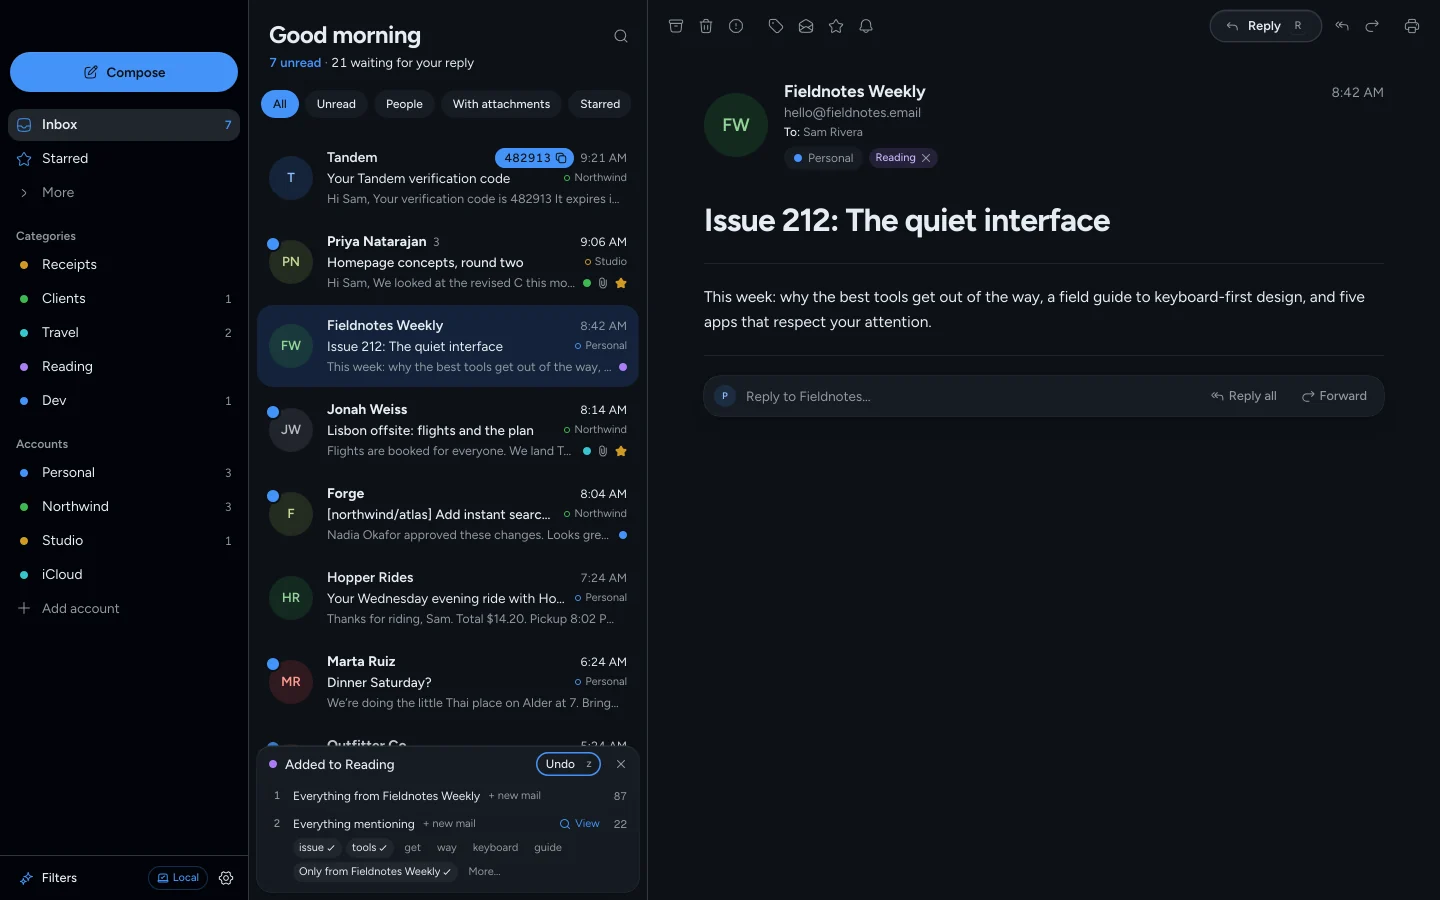
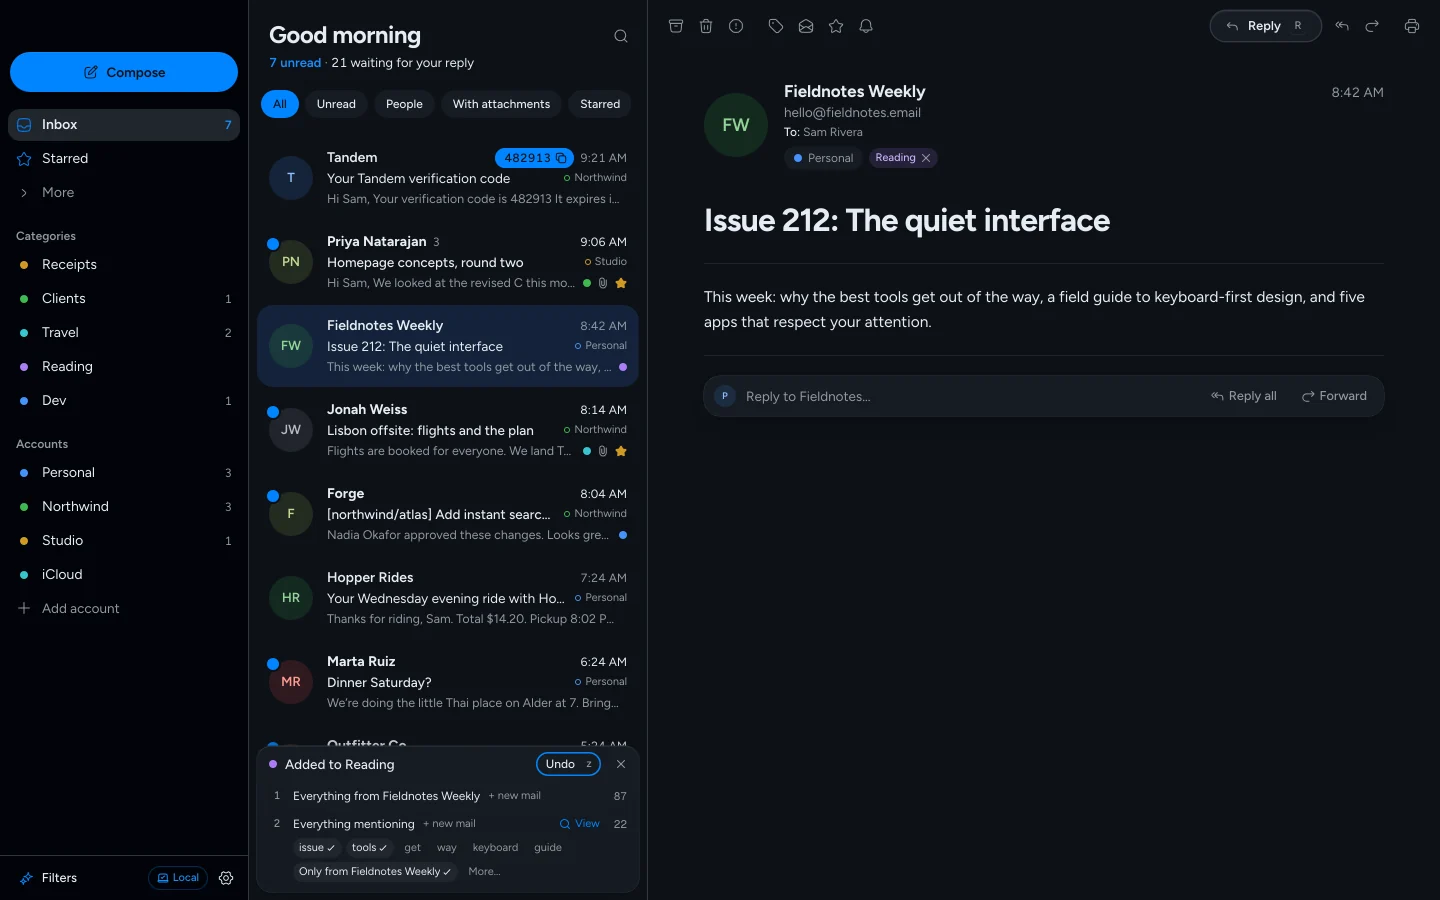
feat(themes): GitHub Dark's primary is Apple's vivid dark-mode blue

Changed region(s): [[0.0, 0.0311, 0.2188, 0.1556], [0.3438, 0.1556, 0.4062, 0.1867]]

diff --git a/packages/ui/src/styles/themes.generated.css b/packages/ui/src/styles/themes.generated.css
@@ -1087,7 +1087,7 @@
   --card-foreground: oklch(0.943 0.011 244);
   --popover: oklch(0.22 0.016 257);
   --popover-foreground: oklch(0.943 0.011 244);
-  --primary: oklch(0.663 0.169 256);
+  --primary: oklch(0.624 0.206 255);
   --primary-foreground: oklch(0.176 0.014 258);
   --secondary: oklch(0.22 0.016 257);
   --secondary-foreground: oklch(0.943 0.011 244);
@@ -1098,26 +1098,26 @@
   --destructive: oklch(0.665 0.205 27);
   --border: oklch(0.33 0.015 252);
   --input: oklch(0.33 0.015 252);
-  --ring: oklch(0.663 0.169 256 / 0.65);
-  --chart-1: oklch(0.663 0.169 256);
+  --ring: oklch(0.624 0.206 255 / 0.75);
+  --chart-1: oklch(0.624 0.206 255);
   --chart-2: oklch(0.695 0.181 146);
   --chart-3: oklch(0.72 0.14 80);
   --chart-4: oklch(0.665 0.205 27);
   --chart-5: oklch(0.662 0.018 251);
   --sidebar: oklch(0.104 0.019 248);
   --sidebar-foreground: oklch(0.943 0.011 244);
-  --sidebar-primary: oklch(0.663 0.169 256);
+  --sidebar-primary: oklch(0.624 0.206 255);
   --sidebar-primary-foreground: oklch(0.176 0.014 258);
   --sidebar-accent: oklch(0.267 0.015 257);
   --sidebar-accent-foreground: oklch(0.943 0.011 244);
   --sidebar-border: oklch(0.33 0.015 252);
-  --sidebar-ring: oklch(0.663 0.169 256 / 0.65);
+  --sidebar-ring: oklch(0.624 0.206 255 / 0.75);
   --pane: oklch(0.176 0.014 258);
   --row-hover: oklch(0.22 0.016 257);
   --row-selected: oklch(0.255 0.048 259);
   --row-selected-foreground: oklch(0.943 0.011 244);
-  --row-rail: oklch(0.663 0.169 256);
-  --unread: oklch(0.663 0.169 256);
+  --row-rail: oklch(0.624 0.206 255);
+  --unread: oklch(0.624 0.206 255);
   --star: oklch(0.72 0.14 80);
   --success: oklch(0.695 0.181 146);
   --cat-rose: oklch(0.665 0.205 27);
@@ -1140,12 +1140,12 @@
   --tint: oklch(0.214 0.014 257.4);
   --highlight: oklch(1 0 0 / 0.06);
   --draft-foreground: oklch(0.665 0.205 27);
-  --sidebar-glyph: oklch(0.663 0.169 256);
+  --sidebar-glyph: oklch(0.624 0.206 255);
   --popover-glass: oklch(0.22 0.016 257 / 0.96);
   --destructive-ink: oklch(0.665 0.205 27);
   --success-ink: oklch(0.695 0.181 146);
-  --unread-ink: oklch(0.663 0.169 256);
-  --sidebar-primary-ink: oklch(0.663 0.169 256);
+  --unread-ink: oklch(0.654 0.206 255);
+  --sidebar-primary-ink: oklch(0.654 0.206 255);
   --overlay: oklch(0 0 0 / 0.45);
   --shadow-color: oklch(0 0 0 / 0.4);
   --ink-anchor: oklch(0.98 0 0);

diff --git a/packages/ui/src/themes/registry.ts b/packages/ui/src/themes/registry.ts
@@ -637,8 +637,8 @@ export const THEMES: readonly Theme[] = [
     cats: cats(".606 .121 15 | .693 .096 38 | .855 .089 84 | .768 .075 131 | .763 .048 194 | .697 .059 249 | .692 .062 333 | .625 .041 263"),
   }),
   defineTheme({
-    // GitHub's dark default (Primer). Its link blue is the primary (GitHub's own buttons are green): #1f6feb with
-    // white reads at 4.1:1 on the canvas, below AA, so buttons are the lighter blue with dark text, like every dark palette
+    // GitHub's dark default (Primer), with Apple's dark-mode blue (#0a84ff) as the primary: vivid like GitHub Light's.
+    // White on any blue that also reads as text on this canvas is below AA, so buttons carry dark text, like every dark palette
     id: "github-dark",
     name: "GitHub Dark",
     mode: "dark",
@@ -656,11 +656,11 @@ export const THEMES: readonly Theme[] = [
       "accent-foreground": "0.943 0.011 244",
       border: "0.33 0.015 252",
       input: "0.33 0.015 252",
-      primary: "0.663 0.169 256",
+      primary: "0.624 0.206 255",
       "primary-foreground": "0.176 0.014 258",
       destructive: "0.665 0.205 27",
       success: "0.695 0.181 146",
-      unread: "0.663 0.169 256",
+      unread: "0.624 0.206 255",
       star: "0.72 0.14 80",
       "row-hover": "0.22 0.016 257",
       "row-selected": "0.255 0.048 259",

diff --git a/docs/plans/96-terno-site.md b/docs/plans/96-terno-site.md
@@ -142,4 +142,4 @@ Codex reviewed `af09e9e6..610a2284` and raised 7 points; all are fixed, each wit
 ### What the Codex review of the second round changed
 
 Five points, all fixed with tests (`e2e/site.spec.ts`): the tools move in to the visible part of a frame wider than the screen (Lumen's hero on a phone); the hero's two modes are both lazy so only the shown one downloads (a network assertion); Midnight's inactive switch stays light on hover; the interaction test scrolls the picture, not its box-less wrapper; previews are checked for a 200 and `noindex`, and the dropped designs for a 404.
-- Third round: the feature pictures are Lumen with **GitHub light** and a new **GitHub Dark** palette (`packages/ui/src/themes/registry.ts`, now 18 palettes). GitHub's button blue (#1f6feb) with white text reads at 4.1:1 as text on its canvas, below AA, so GitHub Dark's primary is GitHub's link blue (#4493f8) with dark text on buttons, as every dark palette does.
+- Third round: the feature pictures are Lumen with **GitHub light** and a new **GitHub Dark** palette (`packages/ui/src/themes/registry.ts`, now 18 palettes). GitHub's button blue (#1f6feb) with white text reads at 4.1:1 as text on its canvas, below AA, so GitHub Dark's primary is Apple's dark-mode blue (#0a84ff, vivid like GitHub Light's) with dark text on buttons, as every dark palette does.
